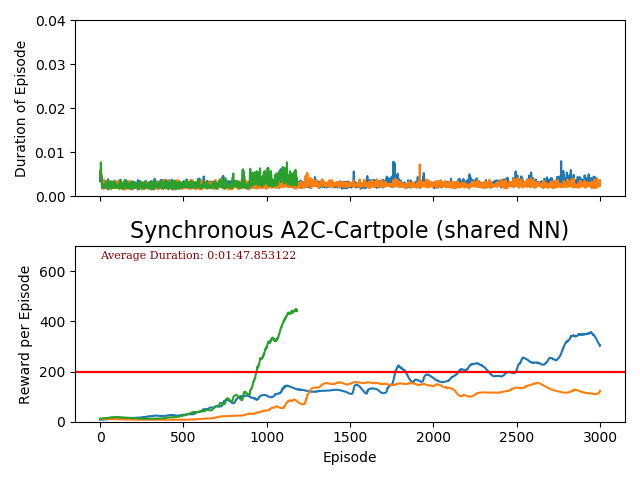
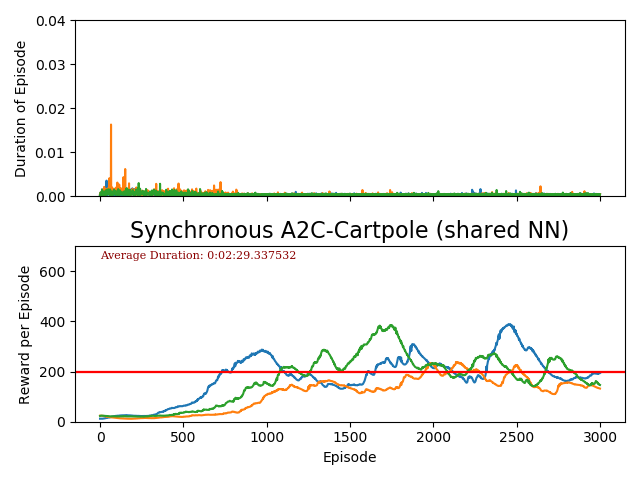
CARTPOLE - refactor synchronous coordinator in A2C_Sync

diff --git a/CARTPOLE/a2c_sync_cart.py b/CARTPOLE/a2c_sync_cart.py
@@ -1,12 +1,12 @@
 """
-Reinforcement Learning (A3C) using Pytroch + multiprocessing.
+Reinforcement Learning (A2C-Sync) using Pytroch + multiprocessing.
 The most simple implementation for continuous action.
 
 """
 
 import torch
 import torch.nn as nn
-from utils import v_wrap, set_init, push_and_pull, record, plotter_ep_rew, handleArguments, plotter_ep_time, confidence_intervall
+from cart_utils import v_wrap, set_init, push_and_pull, record, plotter_ep_rew, handleArguments, plotter_ep_time, confidence_intervall
 import matplotlib.pyplot as plt
 import torch.nn.functional as F
 import torch.multiprocessing as mp
@@ -108,13 +108,13 @@ class Worker(mp.Process):
 
                 if done or ep_r == 600:  # update global and assign to local net
                     # sync
-                    push_and_pull(self.opt, self.lnet, self.gnet, done, s_, buffer_s, buffer_a, buffer_r, GAMMA)
-
                     end = time.time()
+                    time_done = end - start
+
+                    push_and_pull(self.opt, self.lnet, self.gnet, done, s_, buffer_s, buffer_a, buffer_r, GAMMA, True, self.g_ep)
 
                     if not handleArguments().load_model:
                         time.sleep(0.5)
-                    time_done = end - start
 
                     record(self.g_ep, self.g_ep_r, ep_r, self.res_queue,self.time_queue, time_done, a, self.action_queue, self.name)
                     scores.append(int(self.g_ep_r.value))
@@ -146,7 +146,7 @@ if __name__ == "__main__":
         starttime = datetime.now()
         if handleArguments().load_model:
             gnet = Net(N_S, N_A)
-            gnet = torch.load("./save_model/a2c_sync_cart.pt")
+            gnet = torch.load("./cart_save_model/a2c_sync_cart.pt")
             gnet.eval()
         else:
             gnet = Net(N_S, N_A)
@@ -182,7 +182,7 @@ if __name__ == "__main__":
 
         if np.mean(res[-min(mp.cpu_count(), len(res)):]) >= 300 and not handleArguments().load_model:
             print("Save model")
-            torch.save(gnet, "./save_model/a2c_sync_cart.pt")
+            torch.save(gnet, "./cart_save_model/a2c_sync_cart.pt")
         elif handleArguments().load_model:
             print ("Testing! No need to save model.")
         else:

diff --git a/CARTPOLE/a3c_cart_comb.py b/CARTPOLE/a3c_cart_comb.py
@@ -6,7 +6,7 @@ The most simple implementation for continuous action.
 
 import torch
 import torch.nn as nn
-from utils import v_wrap, set_init, push_and_pull, record, plotter_ep_rew, handleArguments, plotter_ep_time, confidence_intervall
+from cart_utils import v_wrap, set_init, push_and_pull, record, plotter_ep_rew, handleArguments, plotter_ep_time, confidence_intervall
 import matplotlib.pyplot as plt
 import torch.nn.functional as F
 import torch.multiprocessing as mp
@@ -111,7 +111,7 @@ class Worker(mp.Process):
 
                 if total_step % UPDATE_GLOBAL_ITER == 0 or done or ep_r == 600:  # update global and assign to local net
                     # sync
-                    push_and_pull(self.opt, self.lnet, self.gnet, done, s_, buffer_s, buffer_a, buffer_r, GAMMA)
+                    push_and_pull(self.opt, self.lnet, self.gnet, done, s_, buffer_s, buffer_a, buffer_r, GAMMA, False, self.g_ep)
                     buffer_s, buffer_a, buffer_r = [], [], []
 
                     if done or ep_r == 600:  # done and print information
@@ -146,7 +146,7 @@ if __name__ == "__main__":
         starttime = datetime.now()
         if handleArguments().load_model:
             gnet = Net(N_S, N_A)
-            gnet = torch.load("./save_model/a3c_cart_comb.pt")
+            gnet = torch.load("./cart_save_model/a3c_cart_comb.pt")
             gnet.eval()
         else:
             gnet = Net(N_S, N_A)
@@ -186,7 +186,7 @@ if __name__ == "__main__":
 
         if np.mean(res[-min(mp.cpu_count(), len(res)):]) >= 300 and not handleArguments().load_model:
             print("Save model")
-            torch.save(gnet, "./save_model/a3c_cart_comb.pt")
+            torch.save(gnet, "./cart_save_model/a3c_cart_comb.pt")
         elif handleArguments().load_model:
             print ("Testing! No need to save model.")
         else:

diff --git a/CARTPOLE/a3c_cart.py b/CARTPOLE/a3c_cart.py
@@ -6,7 +6,7 @@ The most simple implementation for continuous action.
 
 import torch
 import torch.nn as nn
-from utils import v_wrap, set_init, push_and_pull, record, plotter_ep_rew, handleArguments, plotter_ep_time, confidence_intervall
+from cart_utils import v_wrap, set_init, push_and_pull, record, plotter_ep_rew, handleArguments, plotter_ep_time, confidence_intervall
 import matplotlib.pyplot as plt
 import torch.nn.functional as F
 import torch.multiprocessing as mp
@@ -110,7 +110,7 @@ class Worker(mp.Process):
 
                 if done or ep_r == 600:  # update global and assign to local net
                     # sync
-                    push_and_pull(self.opt, self.lnet, self.gnet, done, s_, buffer_s, buffer_a, buffer_r, GAMMA)
+                    push_and_pull(self.opt, self.lnet, self.gnet, done, s_, buffer_s, buffer_a, buffer_r, GAMMA, False, self.g_ep)
                     end = time.time()
                     time_done = end - start
 
@@ -145,7 +145,7 @@ if __name__ == "__main__":
         starttime = datetime.now()
         if handleArguments().load_model:
             gnet = Net(N_S, N_A)
-            gnet = torch.load("./save_model/a3c_cart.pt")
+            gnet = torch.load("./cart_save_model/a3c_cart.pt")
             gnet.eval()
         else:
             gnet = Net(N_S, N_A)
@@ -184,7 +184,7 @@ if __name__ == "__main__":
         [w.join() for w in workers]
         if np.mean(res[-min(mp.cpu_count(), len(res)):]) >= 300 and not handleArguments().load_model:
             print("Save model")
-            torch.save(gnet, "./save_model/a3c_cart.pt")
+            torch.save(gnet, "./cart_save_model/a3c_cart.pt")
         elif handleArguments().load_model:
             print ("Testing! No need to save model.")
         else:

diff --git a/CARTPOLE/a2c_cart.py b/CARTPOLE/a2c_cart.py
@@ -6,7 +6,7 @@ The most simple implementation for continuous action.
 
 import torch
 import torch.nn as nn
-from utils import v_wrap, set_init, plotter_ep_rew, handleArguments, optimize, plotter_ep_time, confidence_intervall
+from cart_utils import v_wrap, set_init, plotter_ep_rew, handleArguments, optimize, plotter_ep_time, confidence_intervall
 import matplotlib.pyplot as plt
 import torch.nn.functional as F
 from shared_adam import SharedAdam
@@ -78,7 +78,7 @@ class Net(nn.Module):
 
 
 if __name__ == "__main__":
-    # load global network
+
     print ("Starting A2C Agent for Cartpole-v0")
     time.sleep(3)
     timedelta_sum = datetime.now()
@@ -89,9 +89,10 @@ if __name__ == "__main__":
     for i in range(3):
         starttime = datetime.now()
 
+        # load global network
         if handleArguments().load_model:
             gnet = Net(N_S, N_A)
-            gnet = torch.load("./save_model/a3c_cart.pt")
+            gnet = torch.load("./cart_save_model/a2c_cart.pt")
             gnet.eval()
         else:
             gnet = Net(N_S, N_A)
@@ -156,7 +157,7 @@ if __name__ == "__main__":
 
         if np.mean(scores[-min(10, len(scores)):]) >= 300 and not handleArguments().load_model:
             print("Save model")
-            torch.save(gnet, "./save_model/a2c_cart.pt")
+            torch.save(gnet, "./cart_save_model/a2c_cart.pt")
         elif handleArguments().load_model:
             print ("Testing! No need to save model.")
         else:

diff --git a/CARTPOLE/a2c_sync_cart_comb.py b/CARTPOLE/a2c_sync_cart_comb.py
@@ -6,7 +6,7 @@ The most simple implementation for continuous action.
 
 import torch
 import torch.nn as nn
-from utils import v_wrap, set_init, push_and_pull, record, plotter_ep_rew, handleArguments, plotter_ep_time, confidence_intervall
+from cart_utils import v_wrap, set_init, push_and_pull, record, plotter_ep_rew, handleArguments, plotter_ep_time, confidence_intervall
 import matplotlib.pyplot as plt
 import torch.nn.functional as F
 import torch.multiprocessing as mp
@@ -106,13 +106,12 @@ class Worker(mp.Process):
 
                 if done or ep_r == 600:  # update global and assign to local net
                     # sync
-                    push_and_pull(self.opt, self.lnet, self.gnet, done, s_, buffer_s, buffer_a, buffer_r, GAMMA)
-
                     end = time.time()
+                    time_done = end - start
+                    push_and_pull(self.opt, self.lnet, self.gnet, done, s_, buffer_s, buffer_a, buffer_r, GAMMA, True, self.g_ep)
 
                     if not handleArguments().load_model:
                         time.sleep(0.5)
-                    time_done = end - start
 
                     record(self.g_ep, self.g_ep_r, ep_r, self.res_queue,self.time_queue, time_done, a, self.action_queue, self.name)
                     scores.append(int(self.g_ep_r.value))

diff --git a/CARTPOLE/a2c_cart_comb.py b/CARTPOLE/a2c_cart_comb.py
@@ -6,7 +6,7 @@ The most simple implementation for continuous action.
 
 import torch
 import torch.nn as nn
-from utils import v_wrap, set_init, plotter_ep_rew, handleArguments, optimize, plotter_ep_time, confidence_intervall
+from cart_utils import v_wrap, set_init, plotter_ep_rew, handleArguments, optimize, plotter_ep_time, confidence_intervall
 import matplotlib.pyplot as plt
 import torch.nn.functional as F
 from shared_adam import SharedAdam
@@ -90,7 +90,7 @@ if __name__ == "__main__":
 
         if handleArguments().load_model:
             gnet = Net(N_S, N_A)
-            gnet = torch.load("./save_model/a2c_cart_comb.pt")
+            gnet = torch.load("./cart_save_model/a2c_cart_comb.pt")
             gnet.eval()
         else:
             gnet = Net(N_S, N_A)
@@ -155,7 +155,7 @@ if __name__ == "__main__":
 
         if np.mean(scores[-min(10, len(scores)):]) >= 300 and not handleArguments().load_model:
             print("Save model")
-            torch.save(gnet, "./save_model/a2c_cart_comb.pt")
+            torch.save(gnet, "./cart_save_model/a2c_cart_comb.pt")
         elif handleArguments().load_model:
             print ("Testing! No need to save model.")
         else:

diff --git a/CARTPOLE/cart_utils.py b/CARTPOLE/cart_utils.py
@@ -4,6 +4,8 @@ Functions that use multiple times
 
 from torch import nn
 import torch
+import torch.multiprocessing as mp
+import time
 import numpy as np
 import matplotlib.pyplot as plt
 import pickle
@@ -22,7 +24,7 @@ def set_init(layers):
         nn.init.constant_(layer.bias, 0.)
 
 
-def push_and_pull(opt, lnet, gnet, done, s_, bs, ba, br, gamma):
+def push_and_pull(opt, lnet, gnet, done, s_, bs, ba, br, gamma, synchronous, global_ep):
     if done:
         v_s_ = 0.               # terminal
     else:
@@ -46,8 +48,15 @@ def push_and_pull(opt, lnet, gnet, done, s_, bs, ba, br, gamma):
         gp._grad = lp.grad
     opt.step()
 
-    # pull global parameters
-    lnet.load_state_dict(gnet.state_dict())
+    if synchronous and not handleArguments().load_model:
+        # Pending for remaining agents to finish
+        while True:
+            if global_ep.value % mp.cpu_count() == 0:
+                lnet.load_state_dict(gnet.state_dict())
+                break
+    else:
+        # pull global parameters
+        lnet.load_state_dict(gnet.state_dict())
 
 
 def optimize(opt, lnet, done, s_, bs, ba, br, gamma):

diff --git a/CARTPOLE/shared_adam.py b/CARTPOLE/shared_adam.py
@@ -1,0 +1,22 @@
+"""
+Shared optimizer, the parameters in the optimizer will shared in the multiprocessors.
+"""
+
+import torch
+
+
+class SharedAdam(torch.optim.Adam):
+    def __init__(self, params, lr=1e-3, betas=(0.9, 0.99), eps=1e-8,
+                 weight_decay=0):
+        super(SharedAdam, self).__init__(params, lr=lr, betas=betas, eps=eps, weight_decay=weight_decay)
+        # State initialization
+        for group in self.param_groups:
+            for p in group['params']:
+                state = self.state[p]
+                state['step'] = 0
+                state['exp_avg'] = torch.zeros_like(p.data)
+                state['exp_avg_sq'] = torch.zeros_like(p.data)
+
+                # share in memory
+                state['exp_avg'].share_memory_()
+                state['exp_avg_sq'].share_memory_()
